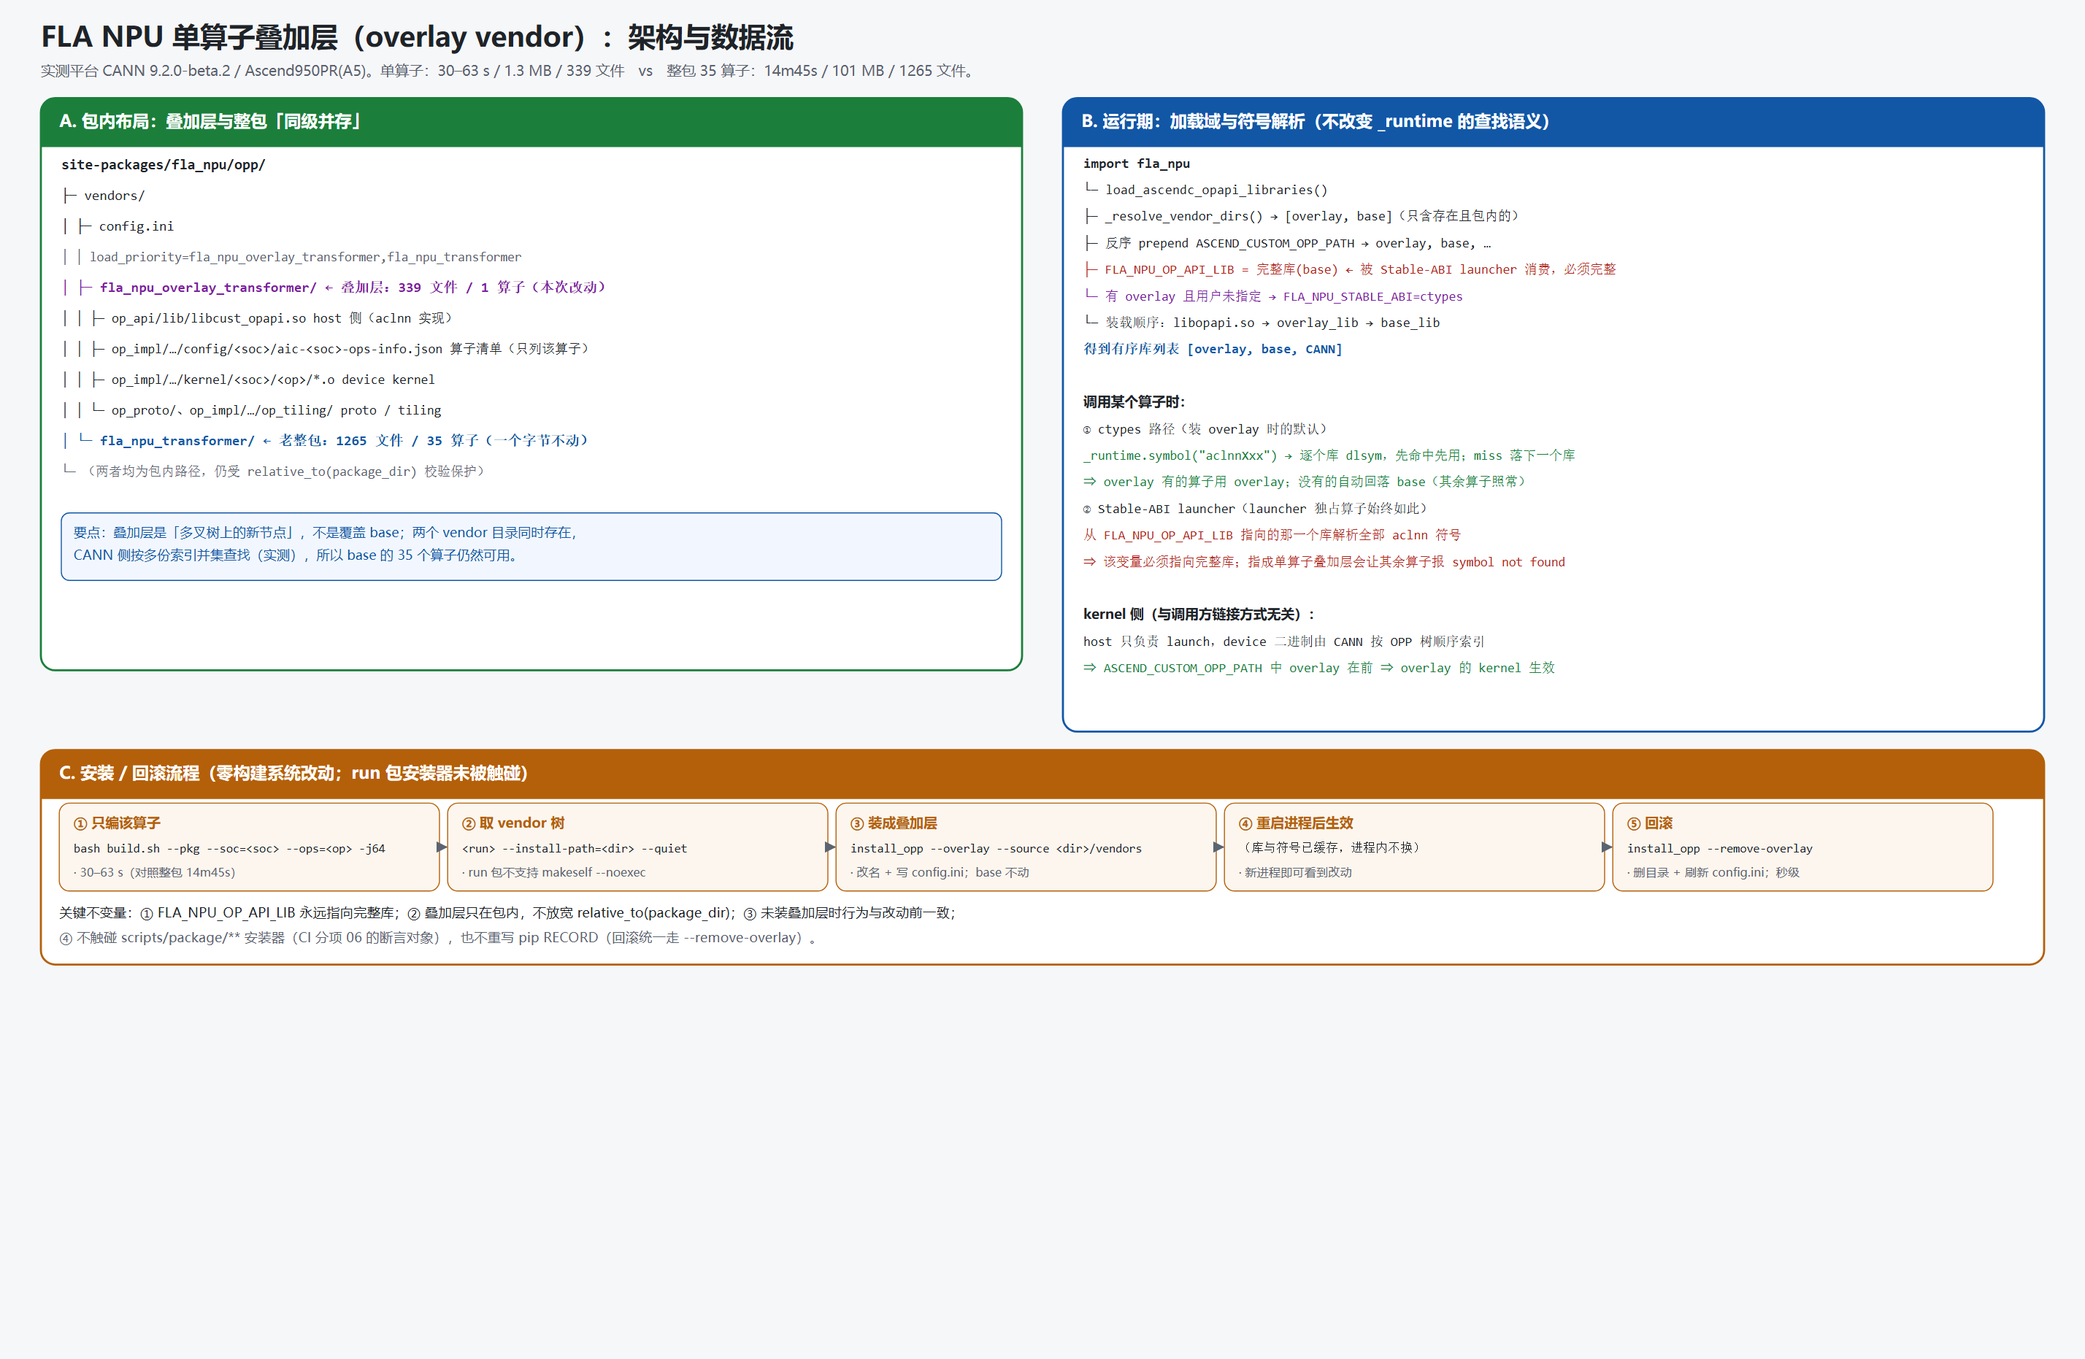
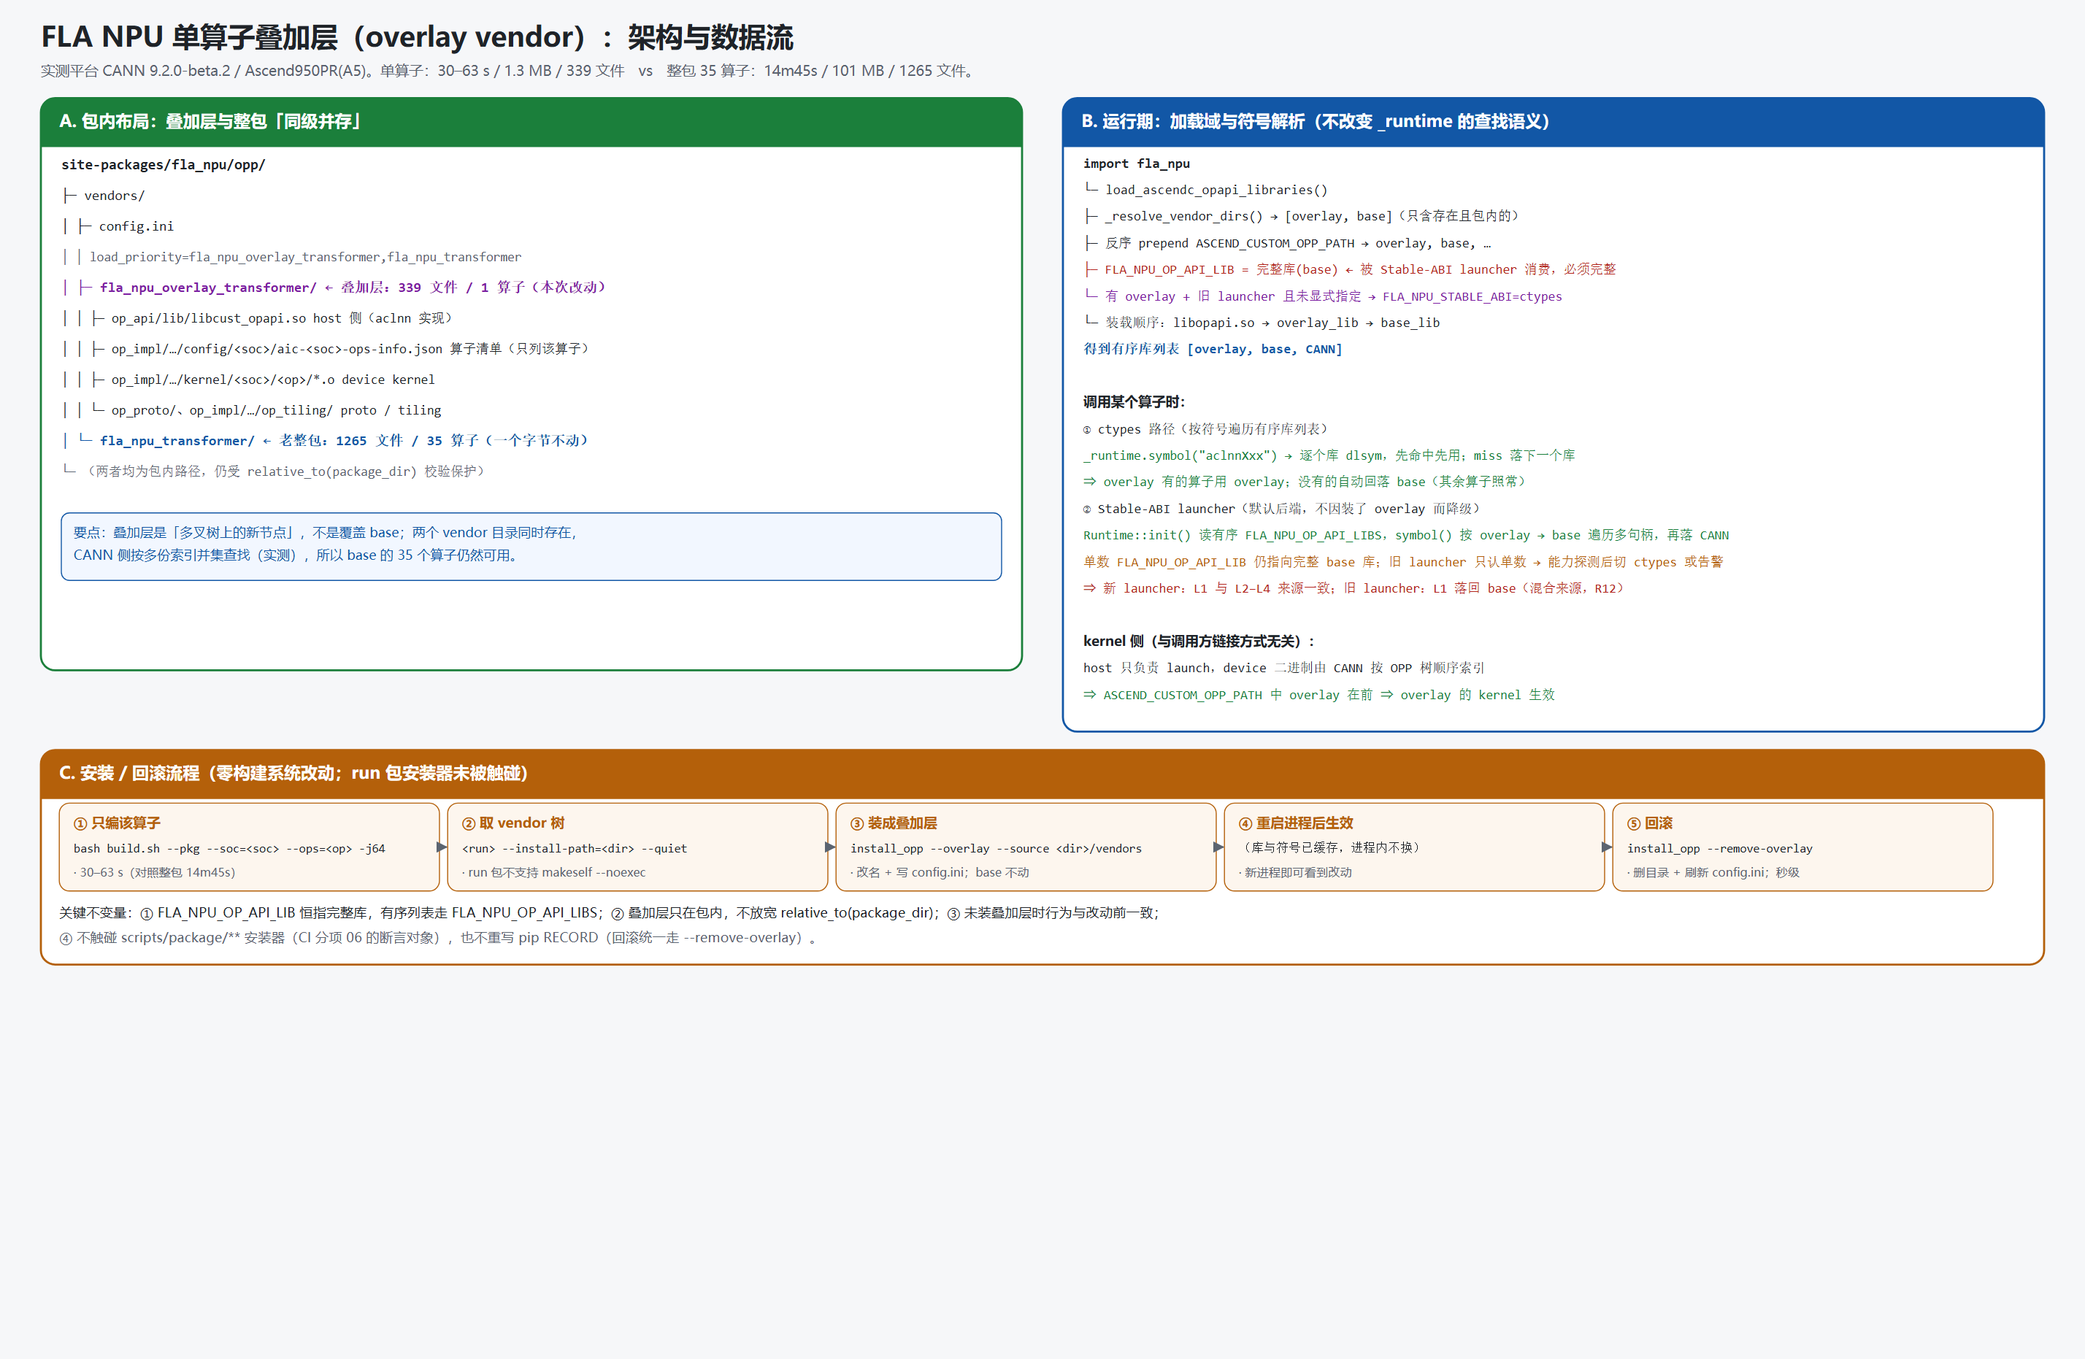
docs: 补充 §6.7 与 R13/R14（<pkg>/opp 惰性、优先级可被 shell 顺序翻转），并同步图 2
- docs/OPP叠加层增量设计.md（843 → 954 行）
  * §6.7（新增，**待评审**）：
    - 6.7.1 `ASCEND_CUSTOM_OPP_PATH` / `LD_LIBRARY_PATH` / `ASCEND_OPP_PATH` 三者
      的条目语义对照（含 CANN 侧解析器出处）
    - 6.7.2 问题①：`<pkg>/opp` 是惰性条目 —— 注掉它仍 `sum=24960`（不必要）、
      只登记它直接 `aclnn...GetWorkspaceSize failed: 161001`（不充分）
    - 6.7.3 问题②：`_prepend` 是"没有才加"，已存在条目不重排 ⇒ 用户 shell 的
      source 顺序可**静默**翻转 overlay 优先级，形成"混合来源"（L1 用 overlay、
      L2–L4 用 base）；并记录 base 的 `set_env.bash` 是无条件 prepend 且指向
      构建期路径
    - 6.7.4 建议方案：把"没有才加"改成**归一化重排**（附代码骨架、为什么单靠
      去重不够、影响面、验收方法）
  * §10：新增 R13（优先级可被 shell 顺序翻转）与 R14（`<pkg>/opp` 惰性），
    两条缓解均指向 §6.7 并标注待评审
- docs/images/pr878-02-review-map.png：条形度量从「行数」改为「文件数」（按 4 组给出 2/3/6/6 个文件），
  并去掉标题与页脚里的精确行数 —— 评审期往设计文档里增补内容不会使本图失效

依据：2026-10-15 在 A5 的实测（脚本与原始日志归档于 artifacts/sim-20261015/）。

纯文档与图片，无代码改动。

Changed region(s): [[0.5298, 0.3738, 0.8102, 0.4984], [0.1558, 0.6541, 0.5298, 0.6853], [0.5609, 0.3115, 0.6232, 0.3426]]

diff --git a/docs/OPP叠加层增量设计.md b/docs/OPP叠加层增量设计.md
@@ -64,7 +64,9 @@
 | **L3 kernel 选择** | CANN 运行时 | 该算子该跑哪个二进制？ | 同树 `op_impl/ai_core/tbe/kernel/config/<soc>/binary_info_config.json`（顶层键就是算子名） |
 | **L4 实体** | CANN 运行时 | 二进制/切分/原型在哪？ | `.../kernel/<soc>/<op>/*.o`、`.../op_tiling/liboptiling.so`、`op_proto/**` |
 
-树的顺序由 `ASCEND_CUSTOM_OPP_PATH` 决定（`overlay → base → built-in`），FLA 在 `import` / `.pth` 阶段把它 prepend 进去。
+**自定义算子树的顺序由 `ASCEND_CUSTOM_OPP_PATH` 决定**：FLA 在 `import` / `.pth` 阶段把包内 vendor 按 `overlay → base` 的顺序 prepend 进去，CANN 就按这个顺序逐树查 L2–L4。
+
+⚠ 该变量里**只有自定义 vendor 目录**：查找链的完整顺序是 ① `ASCEND_CUSTOM_OPP_PATH` 列出的 vendor → ② `$ASCEND_OPP_PATH/vendors/<名字>`（按 `config.ini` 的 `load_priority`）→ ③ 内置 `opp/built-in`。①② 是同一类东西（vendor 目录，只是登记方式不同），③ 才是另一类；**built-in 不在 `ASCEND_CUSTOM_OPP_PATH` 里**，而是 CANN 侧的最后一环兜底 —— 且 FLA 的算子只存在于包内 vendor，不存在于 built-in（L1 的库列表同理，最后一环是 CANN 的 `libopapi.so`）。
 
 **关键性质：查找是"逐算子 / 逐符号"，而索引与库是"按算子集聚合"。**
 
@@ -305,6 +307,88 @@ python -m fla_npu.install_opp --remove-overlay
 | 想让**依赖方内嵌的那份拷贝**也跟着变 | ✅ 需要（`--ops=<op>,<dependent>`） |
 | 仅本算子内部的 kernel 常量/结构头 | ❌ 不需要（实测偏移移动也不影响依赖方） |
 
+### 6.7 `ASCEND_CUSTOM_OPP_PATH` 的条目语义，与两处**待评审**的改进
+
+> 本节为 2026-10-15 在 A5 上的实测结论与改造建议，**尚未实现，待评审**。原始脚本与日志见 `artifacts/sim-20261015/`。
+
+#### 6.7.1 三种"路径列表"变量的条目语义各不相同
+
+| 变量 | 一个条目代表什么 | 可查证的消费者 |
+|---|---|---|
+| `ASCEND_CUSTOM_OPP_PATH` | **vendor 目录**（取其 `<条目>/op_api/lib/libcust_opapi.so`） | `cmake/scripts/examples/get_opapi_abs_path.py:44-51`；transformer 侧 `aclnn_common.h:333,356` |
+| `LD_LIBRARY_PATH` | **直接放 `libcust_opapi.so` 的目录**（`<条目>/libcust_opapi.so`） | `aclnn_common.h:357` |
+| `ASCEND_OPP_PATH` | **OPP root**（读 `<root>/vendors/config.ini` 的 `load_priority`） | `get_opapi_abs_path.py:57-73` |
+
+⇒「**OPP root + `vendors/config.ini` 优先级**」是 `ASCEND_OPP_PATH` 的语义，**不是** `ASCEND_CUSTOM_OPP_PATH` 的。
+这解释了两处历史写法的差异：CANN 原版把 `op_api/lib` 放进 `LD_LIBRARY_PATH`（`refs/cmake/scripts/custom/install.sh:301`），
+而 FLA 把它并进了 `ASCEND_CUSTOM_OPP_PATH`（`cmake/scripts/custom/install.sh:694`）。
+
+#### 6.7.2 问题①：`<pkg>/opp` 是一条**惰性条目**（实测）
+
+`_prepare_embedded_opp()` 除 prepend 每个 vendor 目录外，还 prepend 了 `vendor_dir.parent.parent`（即 `<pkg>/opp`）。
+判决性实测（观测量用 `ChunkLocalCumsum` 的 **kernel ×3** overlay；基线 `sum=8320`、生效 `24960`、找不到算子 `161001`）：
+
+| 变体 | 进程启动前手工设的 `ASCEND_CUSTOM_OPP_PATH` | `__init__` 是否补 `<pkg>/opp` | 结果 |
+|---|---|---|---|
+| R0 | （不设）+ 不装 overlay | — | `8320`（基线正确） |
+| R1 | `[overlay, base]` | ✅ 原样 | `24960`（overlay 生效） |
+| **R2** | `[overlay, base]` | ❌ 注掉 | **`24960`** ⇒ 加不加没区别（**不必要**） |
+| **R3** | **只有 `<pkg>/opp`** | ❌ 不写任何 vendor | **`161001`** ⇒ 单靠它找不到算子（**不充分**） |
+
+**结论**：该条目既不必要也不充分，对运行期没有任何作用。
+
+**建议（待评审）**：删除 `<pkg>/opp` 的登记，并统一三处写法与断言 ——
+`fla_npu/__init__.py`（`_prepare_embedded_opp`）、`install_opp.py`（生成的 `set_env.bash`）、`setup.py`、
+`scripts/package/ops_transformer/scripts/finalize_wheel_opp.py`，以及 `tests/test_wheel_environment.py` 中把最终值
+断言为 `"{vendor_dir.parent.parent}:{vendor_dir}"` 的两处。
+**保守替代**：保留但加注释注明"已在 CANN `9.2.0-beta.2` 实测惰性"，以防其他 CANN 版本语义不同（未验证）。
+
+#### 6.7.3 问题②：已存在的条目**不会被重排**，用户 shell 顺序可翻转优先级（实测）
+
+`_prepend_env_path()`（`fla_npu/__init__.py`）与 `.pth` 的 `_prepend()`（`fla_npu_opp_env.py`）语义都是"**没有才加**"：
+
+```python
+if value_str not in parts:            # 已存在就跳过 ⇒ 位置永远不动
+    os.environ[name] = os.pathsep.join([value_str, *parts])
+```
+
+于是**谁先把条目放进变量，谁就一直在前面**。实测（`import fla_npu` 后看实际顺序）：
+
+| 场景 | 预设的 `ASCEND_CUSTOM_OPP_PATH` | import 后的实际顺序 | 判定 |
+|---|---|---|---|
+| 干净环境 | — | `[overlay, <pkg>/opp, base]` | ✅ |
+| **用户先 source overlay、后 source base** | `[base, overlay]` | `[<pkg>/opp, base, overlay]` | ❌ **base 在前** |
+| 用户先 source base、后 source overlay | `[overlay, base]` | `[<pkg>/opp, overlay, base]` | ✅ |
+| 只 source base（老文档写法） | `[base]` | `[overlay, <pkg>/opp, base]` | ✅ |
+
+失败场景的后果是**混合来源**：L1（库列表由代码构建）仍用 overlay，而 L2–L4（按 vendor 顺序）用 base —— 正是 R12 那个不自洽组合，
+而且**全程没有任何提示**。表现上就是"改已有算子看着像没生效"（base 的旧实现被选中），新增算子（overlay 独有）仍能找到，即"半生效"。
+
+叠加风险：base 的 `bin/set_env.bash` 由 run 包安装器写出，是**无条件 prepend 且不去重**的形式，且其中写的是**构建期路径**
+（实测为 `/data/z00879345/fla-poc-layout/full/inst/vendors/fla_npu_transformer`）。用户只要**重复 source 一次**，
+就会把 base（甚至一个陈旧路径）顶到最前。而本设计新增的 `set_env.bash` 用的是带去重的 `_fla_npu_prepend_path`
+（由 `tests/test_wheel_environment.py::test_generated_set_env_is_idempotent` 兜底）—— **两份脚本的幂等性不一致**。
+
+#### 6.7.4 建议方案：把"没有才加"改成**归一化重排**（待评审）
+
+**做法**：`.pth` 与 `import fla_npu` 两处在写入前，先**移除包内自己注册过的条目**，再按期望顺序（`overlay… → base`）整体 prepend 到最前；
+用户自己的外部条目保持相对顺序、留在后面。
+
+```python
+def _normalize_env_path(name, ordered_values):        # 拟替换 _prepend_env_path / _prepend
+    want = [str(v) for v in ordered_values]
+    rest = [p for p in os.environ.get(name, "").split(os.pathsep) if p and p not in want]
+    os.environ[name] = os.pathsep.join([*want, *rest])
+```
+
+**为什么"给老脚本也加去重"不够**：去重只能防止**新的**翻转，修不了**已经**翻转的状态，甚至会把错误顺序锁死
+（"已存在就跳过" ⇒ 后面再 source overlay 也顶不上去）。只有归一化重排才能保证"包内优先级由代码决定"。
+
+**影响面**：只改环境变量的**顺序**，不改内容集合；`FLA_NPU_OP_API_LIB` / `FLA_NPU_OP_API_LIBS` 由代码构建，本来就免疫。
+**验收**：§6.7.3 的四个场景下 overlay 均须在前，且 L1 与 L2–L4 来源一致（用 kernel ×3 overlay 观测 `sum=24960`）。
+**配套**：发现"现有顺序与期望顺序不一致"时打印**一次**告警；`.pth` 与 `__init__` 两处的写入集合需保持同源
+（现在两处的"第二个路径"就不一致：前者写 `vendor/op_api/lib`，后者写 `<pkg>/opp`）。
+
 ## 7. 备选方案与取舍
 
 ### 7.1 方案 A（选定）—— 包内叠加层 vendor + 按符号多库查找
@@ -325,6 +409,31 @@ python -m fla_npu.install_opp --remove-overlay
 - **C2 外部 vendor + `ASCEND_CUSTOM_OPP_PATH`**（不动包内）：**kernel 层会生效**（host 只负责 launch，device 二进制按 OPP 树索引），但**host 层改动不会生效**——`fla_npu` 只从包内加载 host 库（§6.3）。要把 host 改动带进来必须重新链接调用方，而调用方就是 `fla_npu` 自身，等于回到包内方案。
 
 **何时重考虑**：C1 在"一次改很多算子"时更简单；C2 可作"只改 kernel"的临时手段（仍需重启进程）。
+#### 7.3.1 追问：「只改安装逻辑」——把改动装到指定位置 + 指定优先级——够不够？
+
+> 来源：评审追问。**结论：只覆盖 L2–L4，覆盖不了 L1** —— 本设计之所以要动加载侧，就是为了把 L1 也纳入增量。
+
+| 链 | 只靠"安装位置 + 优先级"能否生效 | 机制 |
+|---|---|---|
+| **L1 host 符号** | ❌ **不能** | 见下面三条硬约束 |
+| **L2 算子注册** | ✅ 能 | CANN 按 `ASCEND_CUSTOM_OPP_PATH`（及 `config.ini` 的 `load_priority`）逐树查 `aic-<soc>-ops-info.json`，与调用方代码无关 |
+| **L3 kernel 选择** | ✅ 能 | 同上，查 `binary_info_config.json` |
+| **L4 实体** | ✅ 能 | 同上，查 `kernel/<soc>/<op>/*.o`、`op_tiling`、`op_proto` |
+
+**L1 不能的三条硬约束**（都是代码里的既定行为，不是配置问题）：
+
+1. **host 库只从包内绝对路径打开**：`_resolve_packaged_opapi()` 对 `…/op_api/lib/libcust_opapi.so` 做 `relative_to(package_dir)` 校验，错误信息原文即 *"External CANN vendor directories are not used as a fallback"*。⇒ 装在包外的 host 库**根本不会被 `CDLL` 打开**，环境变量对它无能为力（这正是 §6.3 的硬约束）。
+2. **"要不要多加载一份 host 库"是加载侧的一个返回值**：`load_ascendc_opapi_libraries()` 返回 `[overlay, base, CANN]`。不改它，叠加层的 `libcust_opapi.so` 不在符号查找域里 —— 即使文件已经躺在包内。
+3. **Stable-ABI launcher 按符号名从"一个"句柄解析**：`Runtime::symbol()` 原先只查 `FLA_NPU_OP_API_LIB` 指向的那**一个**库。要让它认叠加层只有三条路：改 C++ 读有序复数变量（本设计选择）／把单数变量指向单算子叠加层（**其余算子直接 `symbol not found`**，实测踩到，见 §9.1 V18）／降级 ctypes（丢 launcher 性能）。
+
+**"指定优先级"这一步本身也省不掉**：安装进程退出后 `ASCEND_CUSTOM_OPP_PATH` 不再保留，它必须在**每个新进程启动时**重建。能省的只是"发现逻辑"（改成读安装器写死的清单），省不掉"运行期登记"这个动作（本设计由 `.pth` + `import` 承担，见 §4.1 F6）。
+
+**这条路线（= 只做 C2 + 一个安装器）的实际定位**：等价于"**只能改 kernel/tiling 的廉价通路**"——今天就能走，甚至不需要本设计。代价是：
+
+- 凡命中 **aclnn 入口 / 参数校验 / host 逻辑** 的改动，一律退回整份 OPP 重出（884 s / 101 MB）；
+- 安装、回滚、优先级审计这套仍要自己写 —— 那正是本设计的 `--overlay` / `--remove-overlay` / `--status`。
+
+> 与 §12.6.3 的分工一致：**只改 kernel 不需要碰适配器**，所以"只改安装"在这类改动上确实够用；本设计要解决的是把 **host 层也纳入增量**。若团队只想覆盖 kernel，选 C2 是合理的更小改动 —— 但它不是本设计目标的等价替代。
 
 ### 7.4 方案 D —— 对象级增量（复用 `build/**/*.o`）＋ 重链聚合产物
 
@@ -618,6 +727,8 @@ python -m fla_npu.install_opp --remove-overlay
 | R10 | **"产物变了 ≠ 行为变了"**：A2 实测只改 kernel 中 4 处 `tiling_->scale` 的 1 处，`.o` md5 全部改变但运行结果与 base 相同（该分支对本次输入不执行） | 若用"产物 md5 变化"代替行为验证，会误判增量已生效 | 生效判断一律用**行为验证**（本设计 §9 全部采用输出 digest/sum 对照）；构建产物变化只作为辅助证据 |
 | R11 | **自定义名叠加层曾静默不生效**（T3 发现，已修复）：加载端只认默认名或环境变量，安装端把 base 排在自定义名叠加层之前 | 用户执行 `--overlay --overlay-name X` 后看不到任何效果 | 已修：加载端从 `config.ini` + `fla_npu_overlay_*` 目录自动发现；安装端叠加层一律前置；`--status` 标注 active/inactive 并给出提示（V16 复验） |
 | R12 | **"混合来源"状态**（V21 定死）：旧 launcher 下 **L1 入口来自 base、L2–L4（tiling/kernel）来自 overlay**；已排除库内插替（V20） | 若改动**同时**涉及 host 入口与 tiling/kernel 的**契约**（如 tiling 结构体布局、参数语义），混合来源可能产生**不自洽**的组合（例如 base 的入口 + overlay 的 tiling），比"整体生效"或"整体不生效"都更难排查 | ①新 launcher 读有序 `FLA_NPU_OP_API_LIBS` → 三层来源一致；②旧 launcher 由策略兜住：未设环境变量→自动 ctypes（三层都走 overlay 优先），显式设非 `ctypes`→**明确告警**；③文档明确"契约类改动建议同时改 L1 与 L3/L4"（见 §6.6 规则表） |
+| R13 | **用户 shell 的 `source` 顺序可翻转 overlay 优先级**：`_prepend` 是"没有才加"、已存在条目不重排（实测：预设 `[base, overlay]` ⇒ 最终 `[<pkg>/opp, base, overlay]`）；base 的 `set_env.bash` 还是**无条件 prepend 且指向构建期路径**，重复 source 一次即翻转 | **静默**产生**混合来源**：L1 用 overlay、L2–L4 用 base（R12 的组合）；改已有算子"看着像没生效"，新增算子仍能找到（半生效） | 建议改为**归一化重排**（§6.7.4，**待评审**）；过渡期在文档写明"先 source base、后 source overlay"，并让老式 `set_env.bash` 幂等 |
+| R14 | **`<pkg>/opp` 是惰性条目**（`_prepare_embedded_opp` prepend 的 `vendor_dir.parent.parent`）：实测去掉它仍 `24960`（不必要）、只留它 `161001`（不充分） | 无功能影响，但使"三处写法不一致"长期存在，误导后续排查 | 建议删除并统一断言（§6.7.2，**待评审**）；保守做法是保留 + 注释注明实测结论 |
 
 ## 11. 里程碑
 
